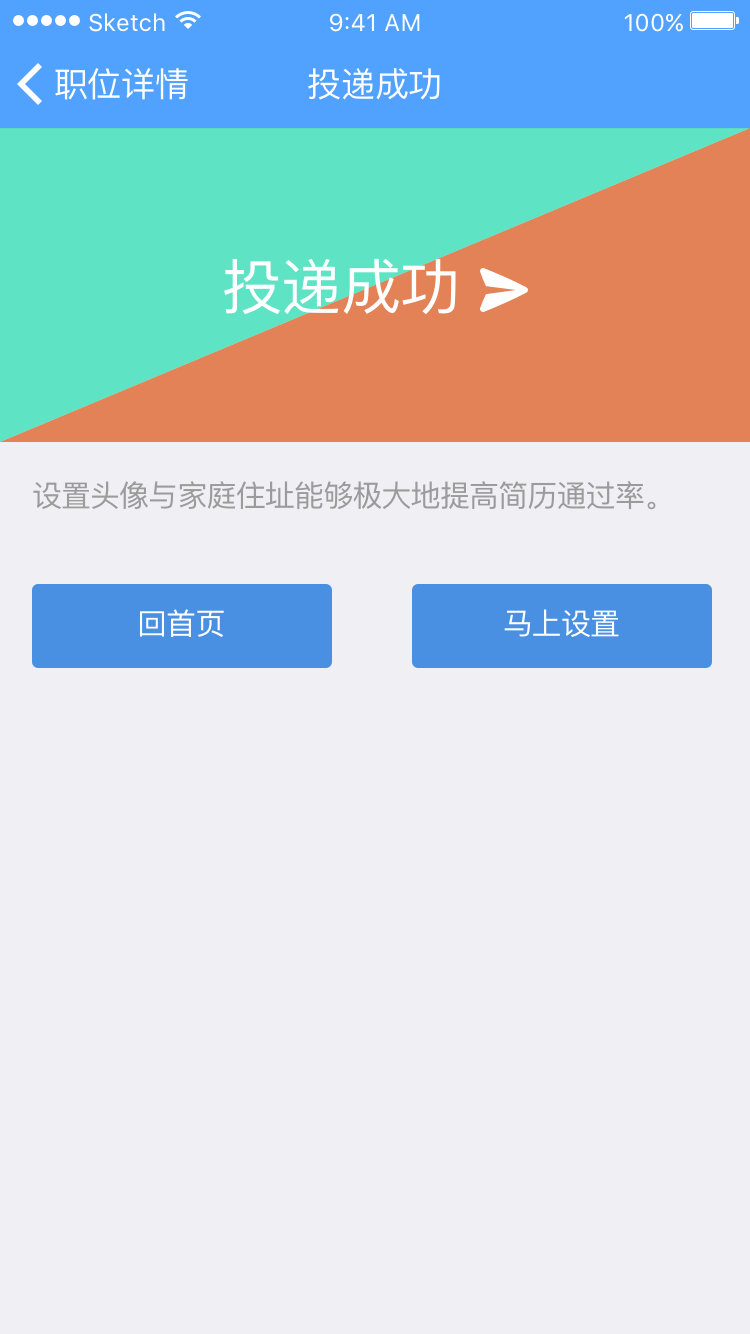
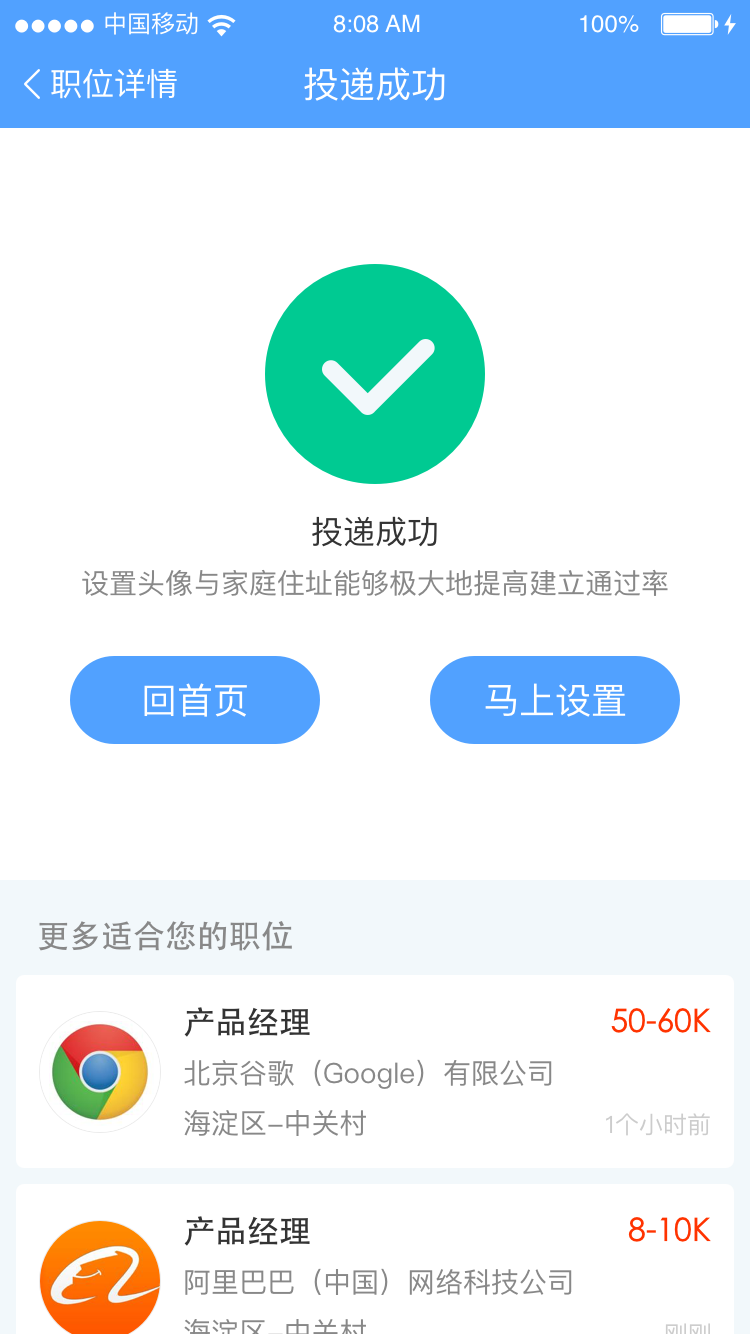
添加投递成功页按钮判断条件及头像和家的位置设置描述

diff --git a/jobs.md b/jobs.md
@@ -333,6 +333,11 @@
 
 场景：投递成功页面展示。
 
+投递成功按钮判断：
+
+- 回首页 → 再看看，「回首页」按钮更名为「再看看」，点击后回到用户之前的职位列表，包括：推荐职位列表，搜索职位列表；
+- 去设置，检测到用户未上传头像或未填写家庭住址的情况下出现该按钮，若用户已填写，该按钮不显示。用户默认进入该页面可以设置头像或家庭住址。若用户已填写过任一选项后，把已填信息带入。
+
 限制条件：
 
 * 若用户已有头像及家的位置，则不进入该页面，走现有流程；
@@ -340,3 +345,16 @@
 原型图展示：
 
 ![](/assets/投递成功.png)
+
+#### 投递成功设置
+
+描述：设置用户的头像及家的位置。交互逻辑按照现有交互进行（调用拍照/相册，地图选位置）。
+
+条件判断：
+
+- 当用户已经填写其中某一项后，会自动写入该页面，用户可在当前页面进行修改；
+- 当用户两项都填写后，该入口在「投递成功」页面隐藏；
+
+原型图展示：
+
+![](/assets/投递成功设置.png)
